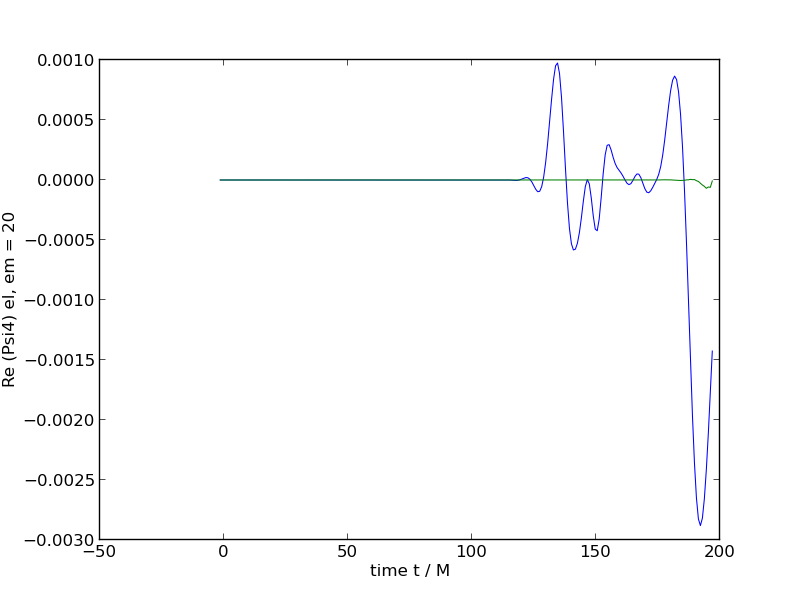
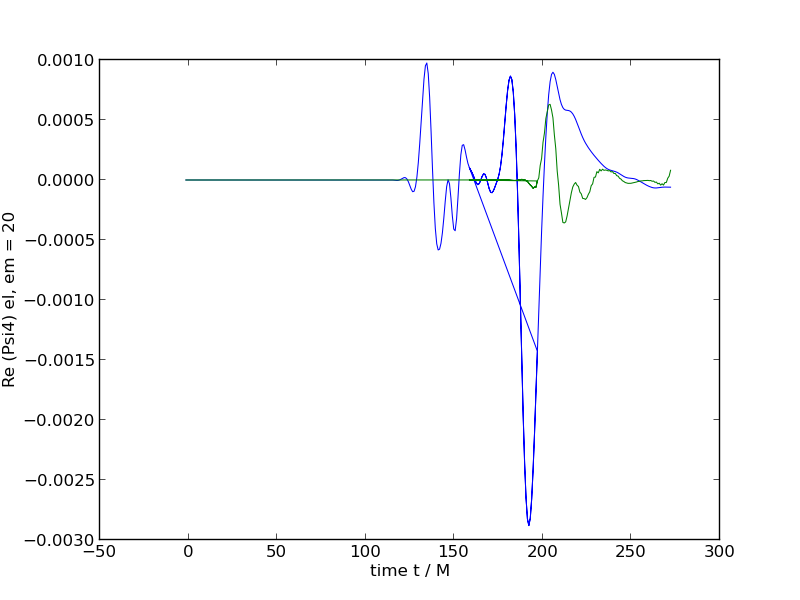
tidy up and clang format

diff --git a/Examples/WarpDrive/Run2/PlotWeyl.py b/Examples/WarpDrive/Run2/PlotWeyl.py
@@ -8,35 +8,44 @@ from matplotlib import cm
 from matplotlib.ticker import LinearLocator, FormatStrFormatter
 
 # coord locations of extraction radii
-R0 = 150
-R1 = 200
+R0 = 2.0 #200
+R1 = 2.0 #300
 # Total ADM mass
 M = 1.0
 # The mode, as text
-mode = "22"
+mode = "20"
 # output data from running merger
-data = np.loadtxt("Weyl_integral_" + mode)
+data = np.loadtxt("Weyl_integral_" + mode + ".dat")
 
 # make the plot
 fig = plt.figure()
 
 # first radius
-r0 = R0 + M*np.log(R0/(2.0*M) - 1.0)
+r0 = 0 #R0 + M*np.log(R0/(2.0*M) - 1.0)
 timedata0 = (data[:,0] - r0) / M
 fluxdata0 = data[:,1]
 plt.plot(timedata0, fluxdata0, '-', lw = 0.75, label="r0")
 
 # second radius
-#r1 = R1 + M*np.log(R1/(2.0*M) - 1.0)
-#timedata1 = (data[:,0] - r1) / M
-#fluxdata1 = data[:,3]
-#plt.plot(timedata1, fluxdata1, '-', lw = 0.75, label="r1")
+r1 = 50 #R1 + M*np.log(R1/(2.0*M) - 1.0)
+timedata1 = (data[:,0] - r1) / M
+fluxdata1 = data[:,3]
+diff = fluxdata1[0] - fluxdata0[0]
+plt.plot(timedata1, fluxdata1 - diff, '-', lw = 0.75, label="r1")
+
+# third radius
+r2 = 100 #R1 + M*np.log(R1/(2.0*M) - 1.0)
+timedata2 = (data[:,0] - r2) / M
+fluxdata2 = data[:,5]
+diff = fluxdata2[0] - fluxdata0[0]
+plt.plot(timedata2, fluxdata2 - diff, '--', lw = 0.75, label="r2")
 
 # make the plot look nice
 plt.xlabel("time t / M")
 plt.ylabel("Re (Psi4) el, em = " + mode)
 #plt.xlim(190, 2400)
-#plt.ylim(-0.012, 0.012)
+#plt.ylim(1.85, 1.88)
+plt.legend()
 
 # save as png image
 filename = "Weyl_" + mode + ".png"

diff --git a/Source/utils/CoordinateTransformations.hpp b/Source/utils/CoordinateTransformations.hpp
@@ -81,8 +81,8 @@ static Tensor<2, data_t> jacobian_dxdr(const data_t x, const double y,
 // coords
 template <class data_t>
 static Tensor<2, data_t>
-spherical_to_cartesian_LL(Tensor<2, data_t> spherical_g, data_t x, double y,
-                          double z)
+    spherical_to_cartesian_LL(Tensor<2, data_t> spherical_g, data_t x, double y,
+                              double z)
 {
     // The output - g in cartesian coords
     Tensor<2, data_t> cartesian_g;
@@ -106,8 +106,8 @@ spherical_to_cartesian_LL(Tensor<2, data_t> spherical_g, data_t x, double y,
 // coords
 template <class data_t>
 static Tensor<2, data_t>
-cartesian_to_spherical_LL(Tensor<2, data_t> cartesian_g, data_t x, double y,
-                          double z)
+    cartesian_to_spherical_LL(Tensor<2, data_t> cartesian_g, data_t x, double y,
+                              double z)
 {
     // The output - g in spherical coords
     Tensor<2, data_t> spherical_g;
@@ -180,8 +180,8 @@ data_t get_det_spherical_area(Tensor<2, data_t> cartesian_g, data_t x, double y,
         cartesian_to_spherical_LL(cartesian_g, x, y, z);
 
     // the r components should now be zero in this adapted basis, so
-    const data_t det_Sigma =
-        spherical_g[1][1] * spherical_g[2][2] - spherical_g[1][2] * spherical_g[2][1];
+    const data_t det_Sigma = spherical_g[1][1] * spherical_g[2][2] -
+                             spherical_g[1][2] * spherical_g[2][1];
 
     return det_Sigma;
 }

diff --git a/Examples/WarpDrive/Run1/PlotWeyl.py b/Examples/WarpDrive/Run1/PlotWeyl.py
@@ -8,12 +8,12 @@ from matplotlib import cm
 from matplotlib.ticker import LinearLocator, FormatStrFormatter
 
 # coord locations of extraction radii
-R0 = 3.0 #200
-R1 = 3.0 #300
+R0 = 2.0 #200
+R1 = 2.0 #300
 # Total ADM mass
 M = 1.0
 # The mode, as text
-mode = "40"
+mode = "22"
 # output data from running merger
 data = np.loadtxt("Weyl_integral_" + mode + ".dat")
 
@@ -21,22 +21,31 @@ data = np.loadtxt("Weyl_integral_" + mode + ".dat")
 fig = plt.figure()
 
 # first radius
-r0 = R0 + M*np.log(R0/(2.0*M) - 1.0)
+r0 = 0 #R0 + M*np.log(R0/(2.0*M) - 1.0)
 timedata0 = (data[:,0] - r0) / M
 fluxdata0 = data[:,1]
 plt.plot(timedata0, fluxdata0, '-', lw = 0.75, label="r0")
 
 # second radius
-r1 = R1 + M*np.log(R1/(2.0*M) - 1.0)
+r1 = 50 #R1 + M*np.log(R1/(2.0*M) - 1.0)
 timedata1 = (data[:,0] - r1) / M
 fluxdata1 = data[:,3]
-plt.plot(timedata1, fluxdata1, '-', lw = 0.75, label="r1")
+diff = fluxdata1[0] - fluxdata0[0]
+plt.plot(timedata1, fluxdata1 - diff, '-', lw = 0.75, label="r1")
+
+# third radius
+r2 = 100 #R1 + M*np.log(R1/(2.0*M) - 1.0)
+timedata2 = (data[:,0] - r2) / M
+fluxdata2 = data[:,5]
+diff = fluxdata2[0] - fluxdata0[0]
+plt.plot(timedata2, fluxdata2 - diff, '--', lw = 0.75, label="r2")
 
 # make the plot look nice
 plt.xlabel("time t / M")
 plt.ylabel("Re (Psi4) el, em = " + mode)
 #plt.xlim(190, 2400)
-#plt.ylim(-0.012, 0.012)
+#plt.ylim(1.85, 1.88)
+plt.legend()
 
 # save as png image
 filename = "Weyl_" + mode + ".png"

diff --git a/FixedBGExamples/KerrSIProca/ProcaFieldLevel.cpp b/FixedBGExamples/KerrSIProca/ProcaFieldLevel.cpp
@@ -4,8 +4,8 @@
  */
 
 // General includes common to most GR problems
-#include "AMRReductions.hpp"
 #include "ProcaFieldLevel.hpp"
+#include "AMRReductions.hpp"
 #include "BoxLoops.hpp"
 #include "ComputePack.hpp"
 #include "NanCheck.hpp"
@@ -95,8 +95,8 @@ void ProcaFieldLevel::specificPostTimeStep()
                        m_state_new, m_state_diagnostics, SKIP_GHOST_CELLS);
         BoxLoops::loop(ExcisionProcaDiagnostics<ProcaField, KerrSchildFixedBG>(
                            m_dx, m_p.center, kerr_bh, 1.0),
-                       m_state_new, m_state_diagnostics,
-                       SKIP_GHOST_CELLS, disable_simd());
+                       m_state_new, m_state_diagnostics, SKIP_GHOST_CELLS,
+                       disable_simd());
     }
 
     // write out the integral after each coarse timestep
@@ -108,7 +108,8 @@ void ProcaFieldLevel::specificPostTimeStep()
         double rho_J_sum = amr_reductions.sum(c_rhoJ);
 
         SmallDataIO integral_file(m_p.integral_filename, m_dt, m_time,
-                                  m_restart_time, SmallDataIO::APPEND, first_step);
+                                  m_restart_time, SmallDataIO::APPEND,
+                                  first_step);
         // remove any duplicate data if this is post restart
         integral_file.remove_duplicate_time_data();
         std::vector<double> data_for_writing = {rho_sum, rho_J_sum};

diff --git a/FixedBGExamples/BoostedBHComplexScalar/ScalarFieldLevel.cpp b/FixedBGExamples/BoostedBHComplexScalar/ScalarFieldLevel.cpp
@@ -4,8 +4,8 @@
  */
 
 // General includes common to most GR problems
-#include "AMRReductions.hpp"
 #include "ScalarFieldLevel.hpp"
+#include "AMRReductions.hpp"
 #include "BoxLoops.hpp"
 #include "ComputePack.hpp"
 #include "NanCheck.hpp"
@@ -60,7 +60,6 @@ void ScalarFieldLevel::initialData()
         ExcisionEvolution<ScalarFieldWithPotential, BoostedBHFixedBG>(
             m_dx, m_p.center, boosted_bh),
         m_state_new, m_state_new, SKIP_GHOST_CELLS, disable_simd());
-
 }
 
 // Things to do before outputting a plot file
@@ -124,7 +123,8 @@ void ScalarFieldLevel::specificPostTimeStep()
         double xMom_sum = amr_reductions.sum(c_xMom);
 
         SmallDataIO integral_file(m_p.integral_filename, m_dt, m_time,
-                                  m_restart_time, SmallDataIO::APPEND, first_step);
+                                  m_restart_time, SmallDataIO::APPEND,
+                                  first_step);
         // remove any duplicate data if this is post restart
         integral_file.remove_duplicate_time_data();
         std::vector<double> data_for_writing = {source_sum, xMom_sum};

diff --git a/Source/Matter/ComplexScalarField.hpp b/Source/Matter/ComplexScalarField.hpp
@@ -86,7 +86,7 @@ template <class potential_t = DefaultComplexPotential> class ComplexScalarField
         const vars_t<Tensor<1, data_t>> &d1, //!< the value of the 1st derivs
         const Tensor<2, data_t> &h_UU, //!< the inverse metric (raised indices)
         const Tensor<3, data_t> &chris_ULL //!< the conformal christoffel symbol
-    ) const;
+        ) const;
 
     //! The function which adds in the RHS for the matter field vars
     template <class data_t, template <typename> class vars_t,
@@ -97,7 +97,7 @@ template <class potential_t = DefaultComplexPotential> class ComplexScalarField
         const vars_t<Tensor<1, data_t>> &d1, //!< the value of the 1st derivs.
         const diff2_vars_t<Tensor<2, data_t>> &d2, //!< the 2nd derivs of vars
         const vars_t<data_t> &advec                //!< the advection terms
-    ) const;
+        ) const;
 };
 
 #include "ComplexScalarField.impl.hpp"

diff --git a/Examples/BinaryBHScalar/BinaryBHLevel.cpp b/Examples/BinaryBHScalar/BinaryBHLevel.cpp
@@ -117,8 +117,9 @@ void BinaryBHLevel::specificPostTimeStep()
         {
             // Populate the Weyl Scalar values on the grid
             fillAllGhosts();
-            BoxLoops::loop(Weyl4(m_p.extraction_params.center, m_dx), m_state_new,
-                       m_state_diagnostics, EXCLUDE_GHOST_CELLS);
+            BoxLoops::loop(Weyl4(m_p.extraction_params.center, m_dx),
+                           m_state_new, m_state_diagnostics,
+                           EXCLUDE_GHOST_CELLS);
         }
 
         // Do the extraction on the min extraction level
@@ -142,7 +143,6 @@ void BinaryBHLevel::specificPostTimeStep()
         bool write_punctures = at_level_timestep_multiple(coarsest_level);
         m_bh_amr.puncture_tracker.execute_tracking(m_time, m_restart_time, m_dt,
                                                    write_punctures);
-
     }
 }
 

diff --git a/FixedBGExamples/BoostedBHComplexScalar/ExcisionDiagnostics.hpp b/FixedBGExamples/BoostedBHComplexScalar/ExcisionDiagnostics.hpp
@@ -30,7 +30,8 @@ template <class matter_t, class background_t> class ExcisionDiagnostics
   public:
     ExcisionDiagnostics(const double a_dx,
                         const std::array<double, CH_SPACEDIM> a_center,
-                        background_t a_background, const double a_inner_r, const double a_outer_r)
+                        background_t a_background, const double a_inner_r,
+                        const double a_outer_r)
         : m_dx(a_dx), m_deriv(m_dx), m_center(a_center),
           m_background(a_background), m_inner_r(a_inner_r), m_outer_r(a_outer_r)
     {

diff --git a/FixedBGExamples/BoostedBHComplexScalar/SimulationParameters.hpp b/FixedBGExamples/BoostedBHComplexScalar/SimulationParameters.hpp
@@ -39,7 +39,8 @@ class SimulationParameters : public ChomboParameters
         pp.load("field_amplitude_im", field_amplitude_im);
         pp.load("scalar_mass", potential_params.scalar_mass);
         pp.load("inner_r", inner_r, 5.0);
-        pp.load("outer_r", outer_r, 2.0/ bg_params.velocity / potential_params.scalar_mass);
+        pp.load("outer_r", outer_r,
+                2.0 / bg_params.velocity / potential_params.scalar_mass);
 
         // Extraction params
         pp.load("num_extraction_radii", extraction_params.num_extraction_radii,

diff --git a/Tests/FixedBGProcaConstraintCheck/FixedBGProcaFieldTest.hpp b/Tests/FixedBGProcaConstraintCheck/FixedBGProcaFieldTest.hpp
@@ -100,7 +100,7 @@ template <class potential_t> class FixedBGProcaFieldTest
         const vars_t<Tensor<1, data_t>> &d1,    //!< the 1st derivs
         const Tensor<2, data_t> &gamma_UU,      //!< the inverse metric (raised)
         const Tensor<3, data_t> &chris_phys_ULL //!< the conformal christoffel
-    ) const;
+        ) const;
 
     //! The function which adds in the matter field RHS, given the vars and
     //! derivatives

diff --git a/FixedBGExamples/KerrSIProca/FixedBGProcaFieldTest.hpp b/FixedBGExamples/KerrSIProca/FixedBGProcaFieldTest.hpp
@@ -97,7 +97,7 @@ template <class potential_t> class FixedBGProcaFieldTest
         const vars_t<Tensor<1, data_t>> &d1,    //!< the 1st derivs
         const Tensor<2, data_t> &gamma_UU,      //!< the inverse metric (raised)
         const Tensor<3, data_t> &chris_phys_ULL //!< the conformal christoffel
-    ) const;
+        ) const;
 
     //! The function which adds in the matter field RHS, given the vars and
     //! derivatives

diff --git a/Source/AMRInterpolator/Lagrange.impl.hpp b/Source/AMRInterpolator/Lagrange.impl.hpp
@@ -103,8 +103,8 @@ Lagrange<Order>::Stencil::Stencil(int width, int deriv, double dx,
 }
 
 template <int Order>
-bool Lagrange<Order>::Stencil::operator==(
-    const Lagrange<Order>::Stencil &rhs) const
+bool Lagrange<Order>::Stencil::
+operator==(const Lagrange<Order>::Stencil &rhs) const
 {
     return (rhs.m_width == m_width) && (rhs.m_deriv == m_deriv) &&
            (rhs.m_point_offset == m_point_offset) && (rhs.dx == m_dx);
